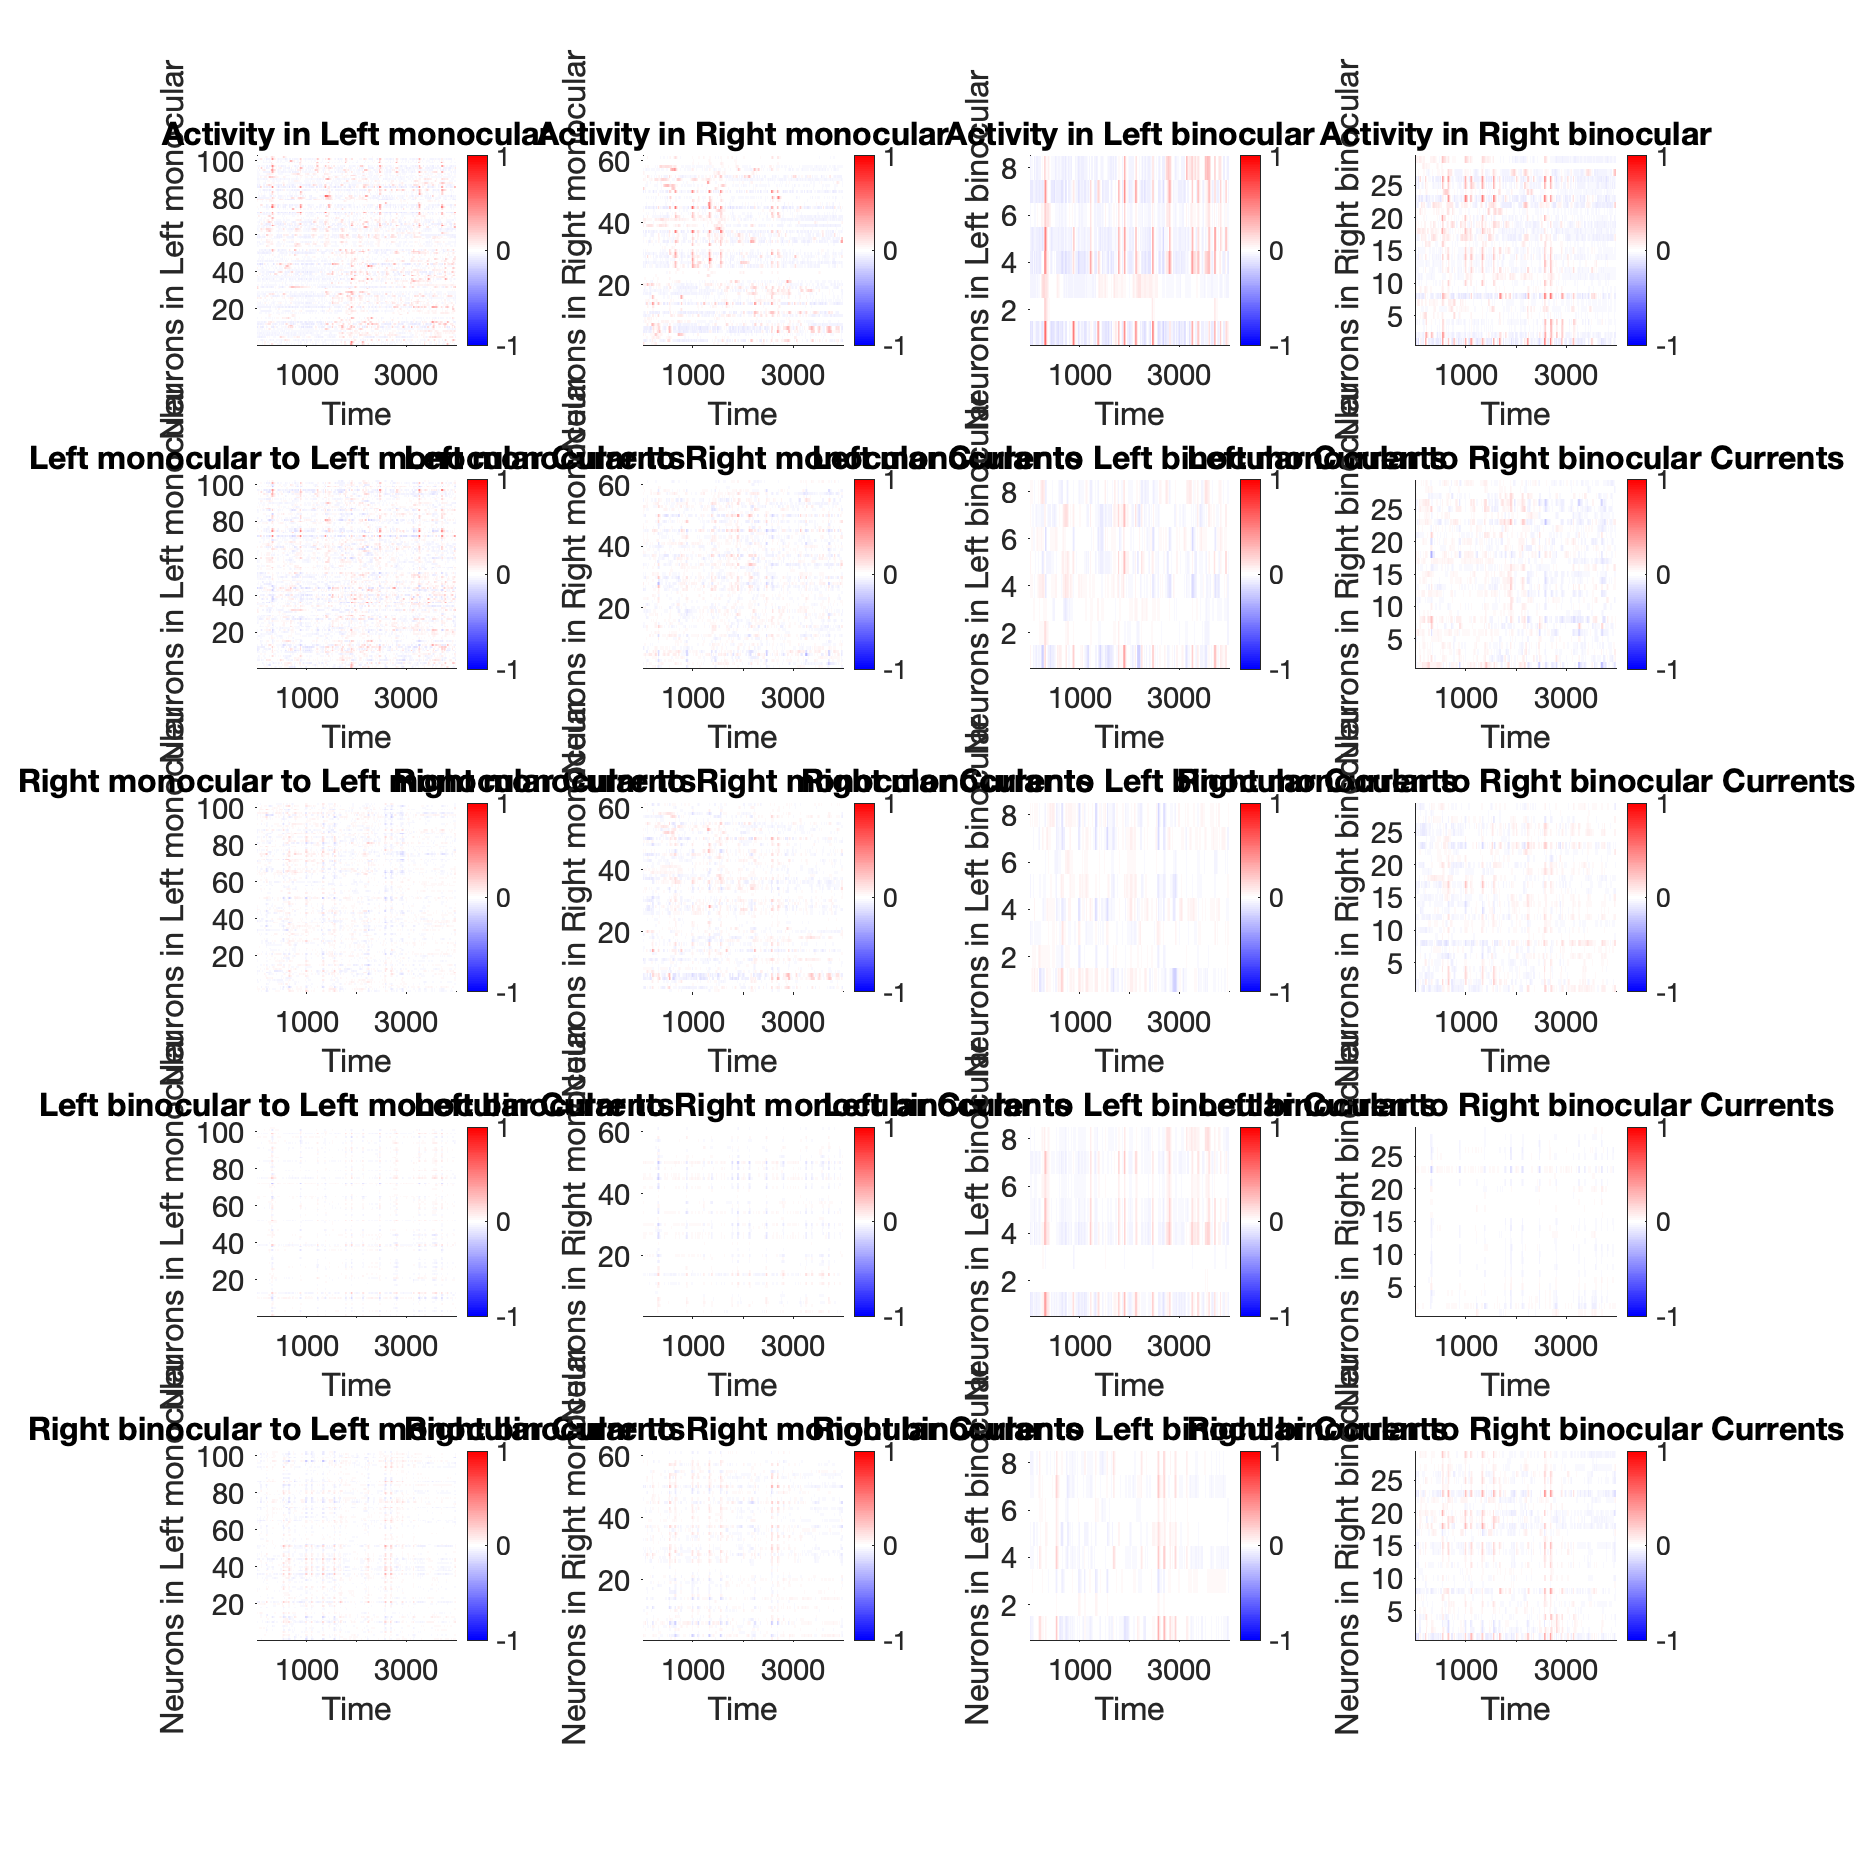
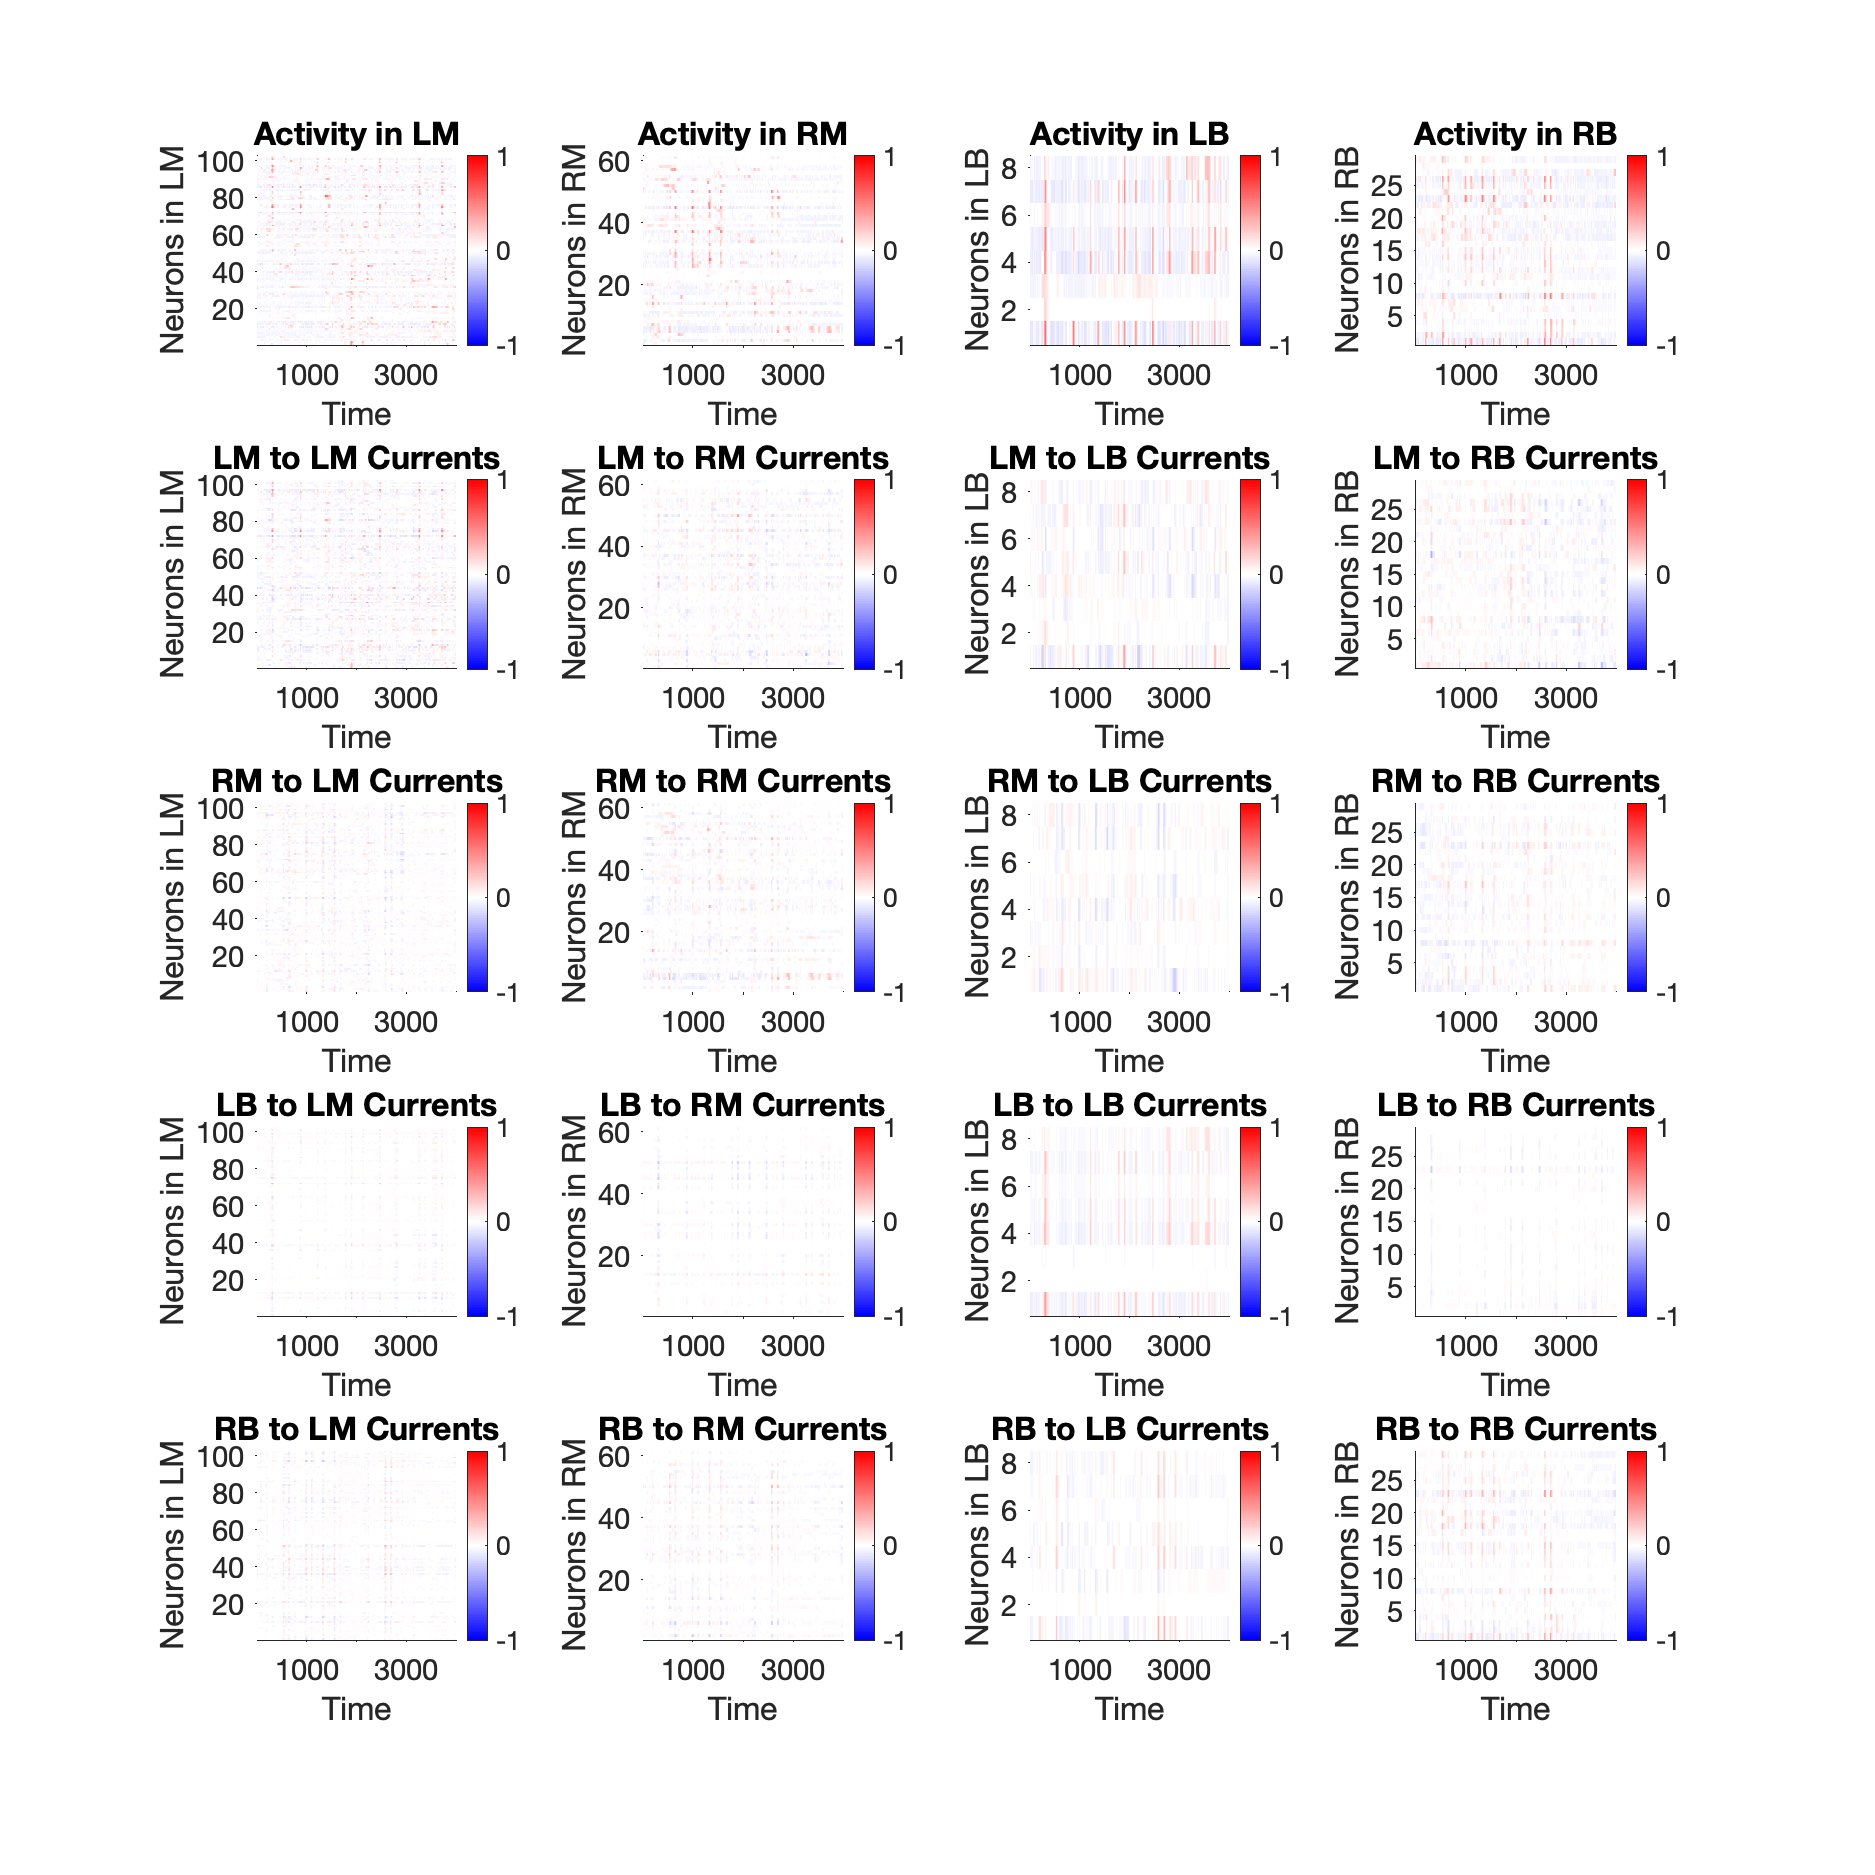
pca plots

diff --git a/CURBD_naumann_example.m b/CURBD_naumann_example.m
@@ -40,18 +40,18 @@ number_of_neurons = length(Left_monocular_indices) + length(Right_monocular_indi
 correlation_table = [];
 
 for ensemble_index = 1:1
-    load(sprintf('~/Documents/github_jchooch/zfish_pretectum_rnn/matlab/current/ensemble/output_%d.mat', ensemble_index));
-    fprintf('Ensemble index: %d \n Data file: output_%d.mat \n', ensemble_index, ensemble_index);
-    test_RNN = R(:, 1:end-2);
-    test_J = J;
-    test_N = N;
+    data{ensemble_index} = load(sprintf('~/Documents/github_jchooch/zfish_pretectum_rnn/matlab/current/ensemble/output_%d.mat', ensemble_index));
+    fprintf('Data index (from ensemble): %d \n Data file: output_%d.mat \n', ensemble_index, ensemble_index);
+    test_RNN = data{1, ensemble_index}.R(:, 1:end-2);
+    test_J = data{1, ensemble_index}.J;
+    test_N = data{1, ensemble_index}.N;
     load('curbd_example_workspace.mat');
     %test_regions = {'Monocular', Monocular_indices; 'Binocular', Binocular_indices};
     test_regions = {
-        'Left monocular', Left_monocular_indices; 
-        'Right monocular', Right_monocular_indices; 
-        'Left binocular', Left_binocular_indices;
-        'Right binocular', Right_binocular_indices};
+        'LM', Left_monocular_indices;
+        'RM', Right_monocular_indices;
+        'LB', Left_binocular_indices;
+        'RB', Right_binocular_indices};
     test_params = model.params;
     test_CURBD = computeCURBD(test_RNN, test_J, test_regions, test_params);
     % plot heatmaps of currents
@@ -92,10 +92,68 @@ for ensemble_index = 1:1
     end
     colormap redblue(100);
     saveas(current_figure, sprintf('CURBD_figures/CURBD_fig_%d.png', ensemble_index));
-    fprintf('Average correlations: %d \n', average_correlations);
-    correlation_table = [correlation_table; ensemble_index, reshape(average_correlations', 1, numel(average_correlations))];
+    disp('Average correlations:')
+    disp(average_correlations)
+    correlation_table = [correlation_table; reshape(average_correlations', 1, numel(average_correlations))];
+    %correlation_table = [correlation_table; ensemble_index, reshape(average_correlations', 1, numel(average_correlations))];
 end
 display(correlation_table)
+
+figure()
+%plot_curbd_correlations(correlation_table, test_CURBD)
+h = heatmap(reshape(correlation_table, [size(test_CURBD, 1), size(test_CURBD, 2)]));
+h.Title = 'Correlations Between Target Activities and Source-Target Currents';
+h.XLabel = 'Source Region';
+h.YLabel = 'Target Region';
+region_names = [];
+for i=1:size(test_regions, 1)
+    region_names = [region_names, string(test_regions{i,1})];
+end
+h.XDisplayLabels = num2cell(region_names);
+h.YDisplayLabels = num2cell(region_names);
+
+% want to create a pca cell with pca coeff matrices for all curbd matrices
+% want to create a reduced_activities for all curbd matrices (multiply
+% relevant curbd matrix by relevant pca coeff matrix)
+% create time vectors for: 
+% - stimulus on vs off
+% - stimulus right vs left vs off
+% - stimulus binocular vs monocular
+% - etc
+% USE WHOLE FIELD MOTION / BINOCULAR MOTION
+
+[coeff,score,latent,tsquared,explained,mu] = pca(test_CURBD{1, 1}.');
+
+figure()
+reduced_activities = test_CURBD{1, 1}.' * coeff;
+reduced_activities = reduced_activities.';
+time_col = linspace(0,2*pi,size(reduced_activities,2));
+x = reduced_activities(1,:);
+y = reduced_activities(2,:);
+
+plot3(reduced_activities(1,1:500), reduced_activities(2,1:500), reduced_activities(3,1:500))
+
+% color code line plot with stimuli or dots (e.g. L,R)
+%{
+x = 0:.05:2*pi;
+y = sin(x);
+z = zeros(size(x));
+col = z;  % This is the color, vary with x in this case.
+surface([x;x],[y;y],[z;z],[col;col],...
+        'facecol','no',...
+        'edgecol','interp',...
+        'linew',2);
+%}
+
+%{
+for iTarget = 1:size(test_CURBD,1)
+    for iSource = 1:size(test_CURBD,2)
+        CURBD_PCs = pca(test_CURBD{iTarget, iSource}.');
+        CURBD_PCs
+    end
+end
+%}
+
 %{
 figure('Position', [100 100 900 900], 'Visible', 'on');
 subplot(1, 2, 1); 

diff --git a/plot_curbd_correlations.m b/plot_curbd_correlations.m
@@ -1,0 +1,15 @@
+% plot_curbd_correlations.m
+
+function plot_curbd_correlations(correlation_table, CURBD)
+    if size(correlation_table, 1) == size(correlation_table, 2)
+        h = heatmap(correlation_table);
+        h.Title = 'My Heatmap Title';
+        h.XLabel = 'My Label';
+        h.YLabel = 'My Label';
+    else
+        h = heatmap(reshape(correlation_table, [size(CURBD, 1), size(CURBD, 2)]));
+        h.Title = 'My Heatmap Title';
+        h.XLabel = 'My Label';
+        h.YLabel = 'My Label';
+    end
+end
